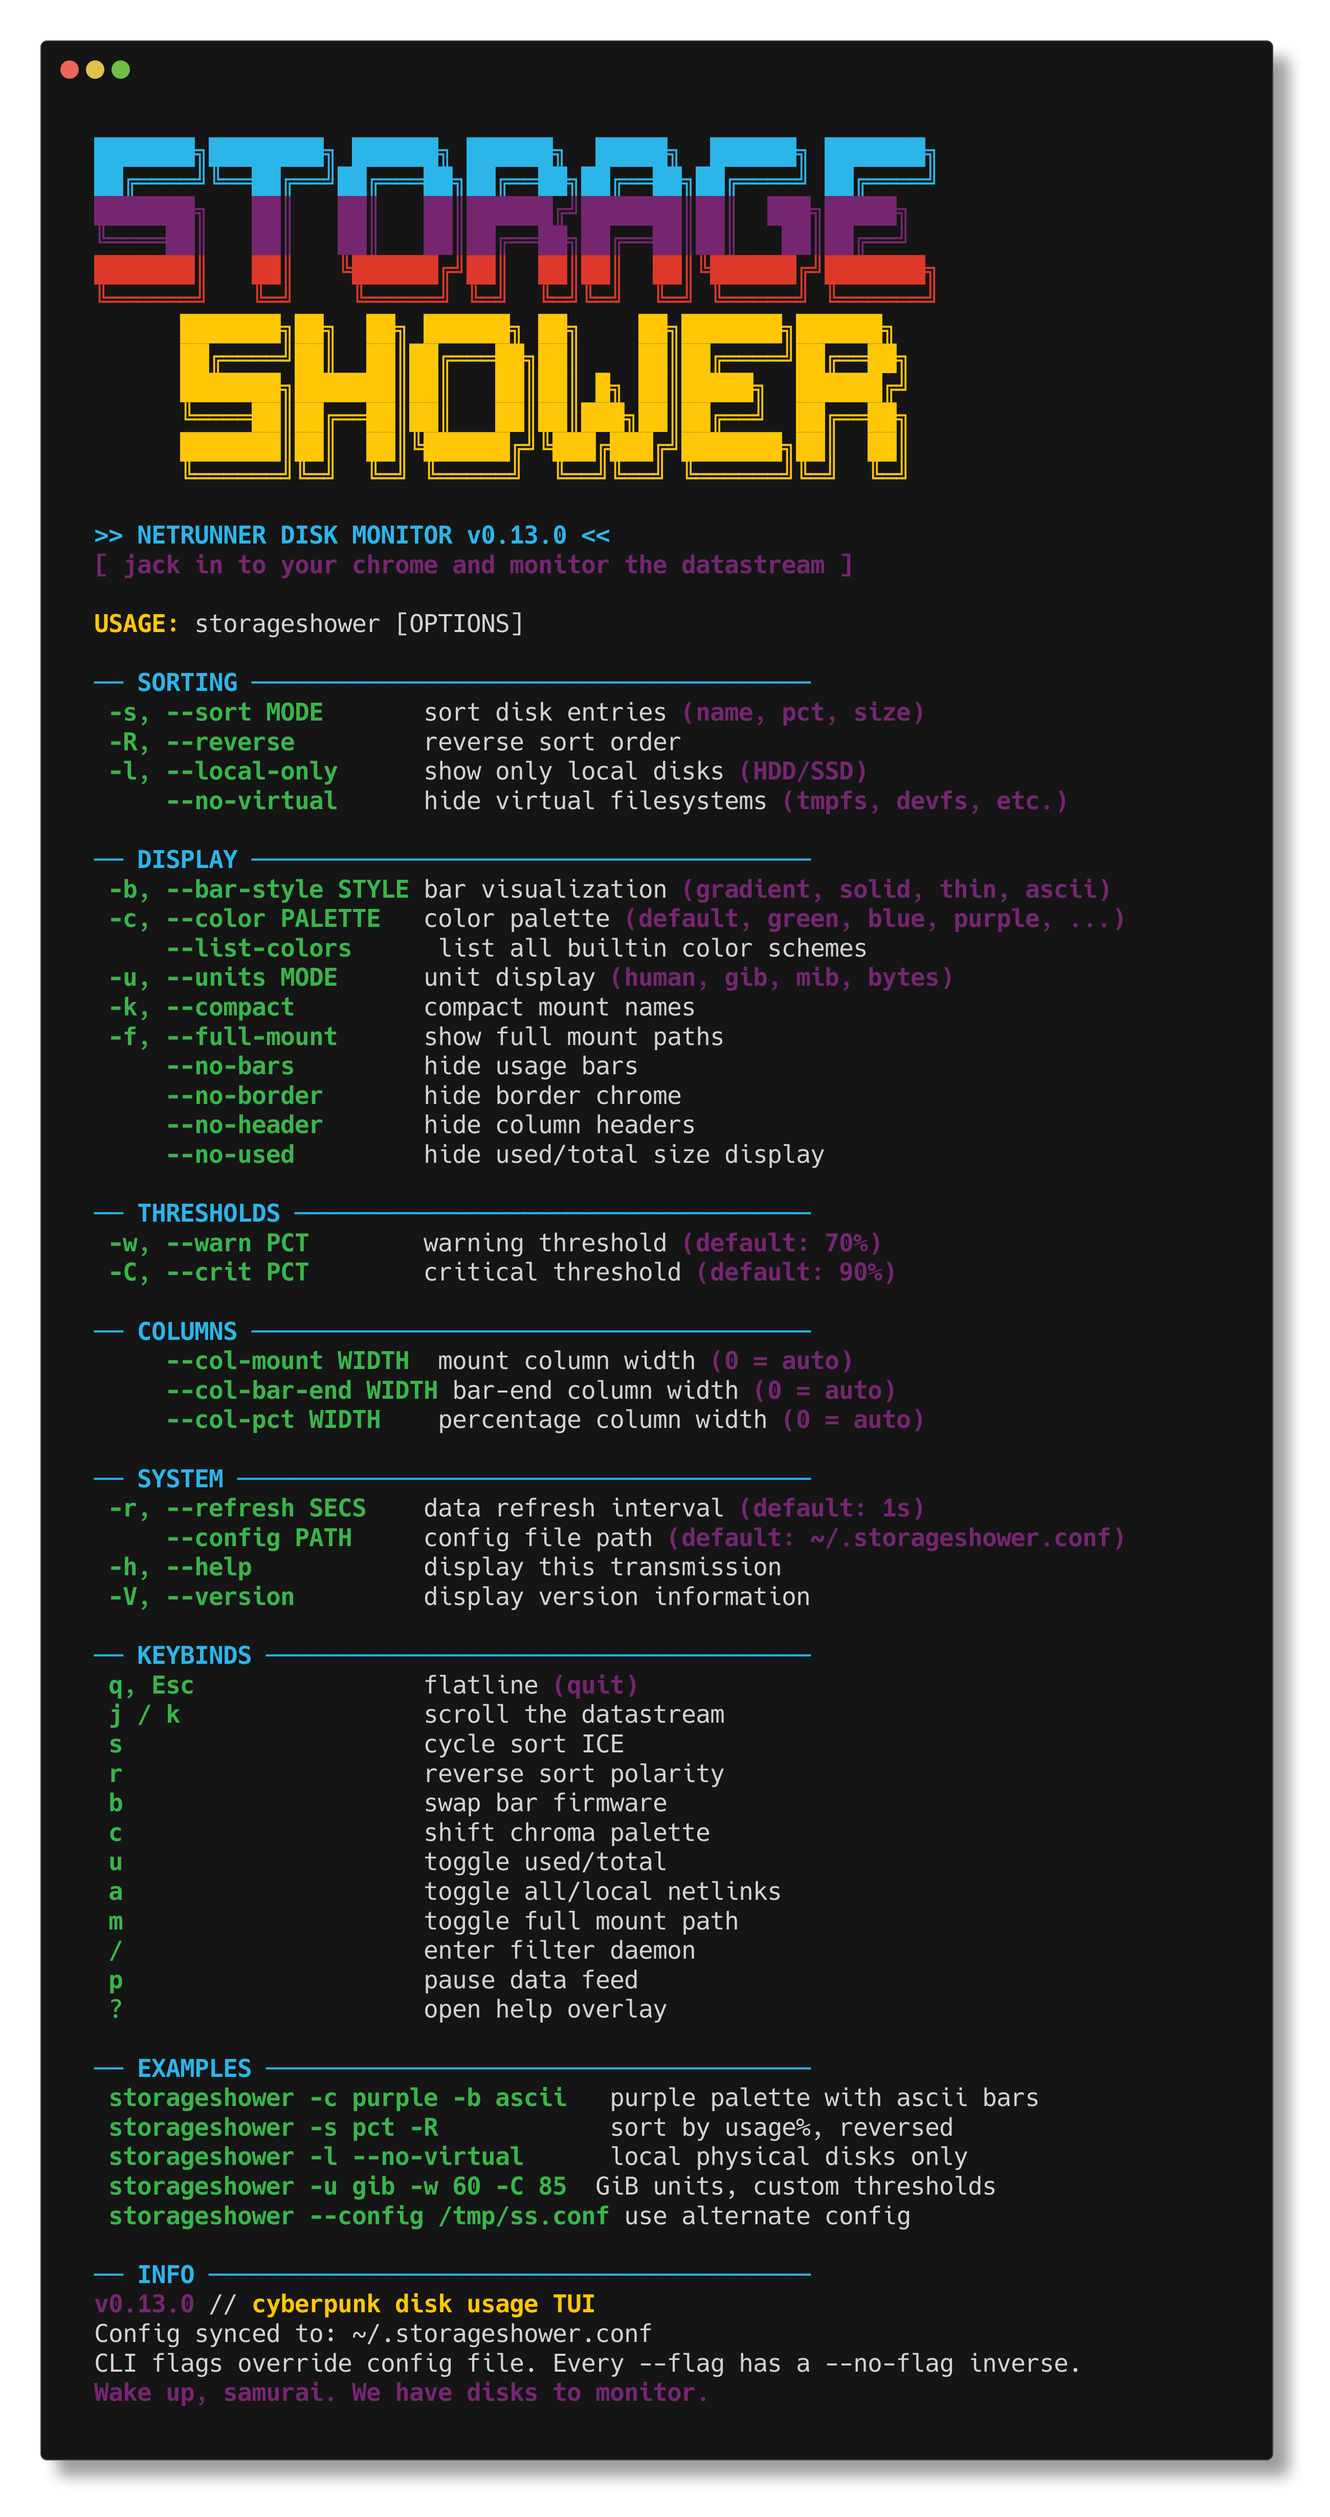
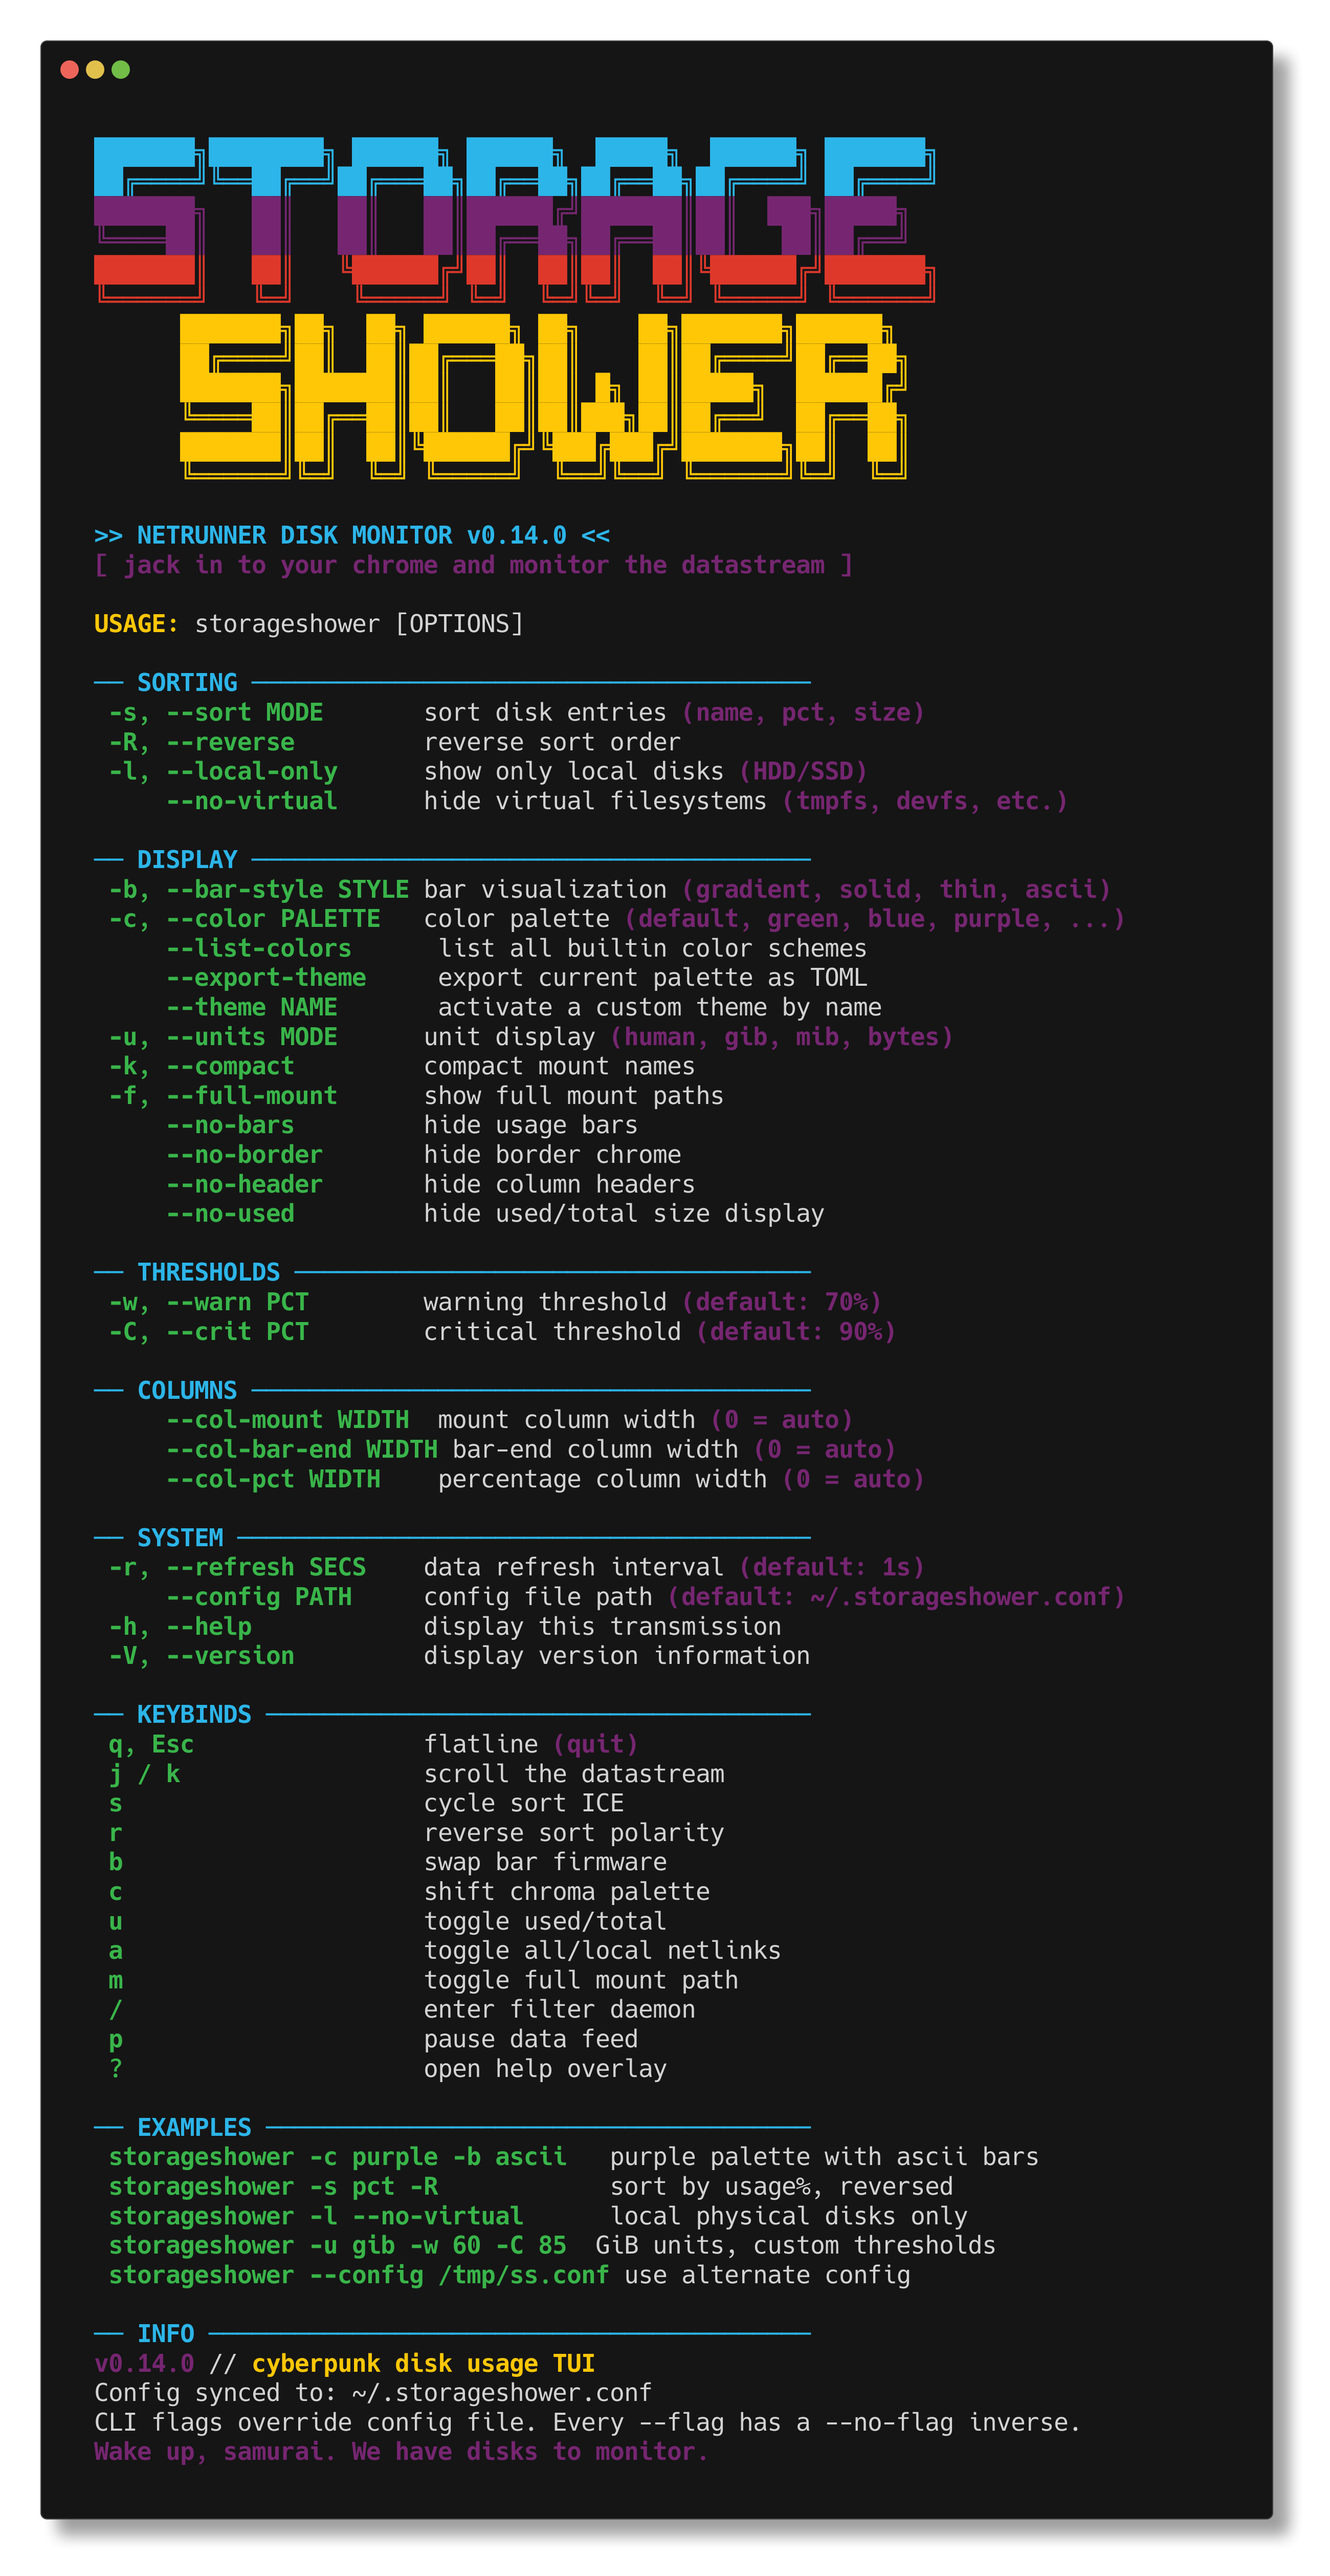
bump version to 0.14.0: --export-theme flag
- --export-theme dumps current palette as ready-to-paste TOML
- Combine with -c or --theme to export specific palettes
- Outputs [custom_themes.<name>] block with all 6 color values
- Added to CLI help, zsh completion, README
- 3 new integration tests for flag parsing

diff --git a/src/cli.rs b/src/cli.rs
@@ -143,6 +143,10 @@ pub struct Cli {
     /// Activate a custom theme by name (defined in config file)
     #[arg(long = "theme", value_name = "NAME")]
     pub theme: Option<String>,
+
+    /// Export the current or named theme as TOML
+    #[arg(long = "export-theme")]
+    pub export_theme: bool,
 }
 
 // ANSI color constants
@@ -187,6 +191,8 @@ pub fn print_help() {
 {B_GREEN}   -b, --bar-style STYLE {RST}bar visualization {B_MAGENTA}(gradient, solid, thin, ascii){RST}
 {B_GREEN}   -c, --color PALETTE   {RST}color palette {B_MAGENTA}(default, green, blue, purple, ...){RST}
 {B_GREEN}       --list-colors      {RST}list all builtin color schemes
+{B_GREEN}       --export-theme     {RST}export current palette as TOML
+{B_GREEN}       --theme NAME       {RST}activate a custom theme by name
 {B_GREEN}   -u, --units MODE      {RST}unit display {B_MAGENTA}(human, gib, mib, bytes){RST}
 {B_GREEN}   -k, --compact         {RST}compact mount names
 {B_GREEN}   -f, --full-mount      {RST}show full mount paths
@@ -274,6 +280,43 @@ pub fn print_colors() {
     }
     println!("\n  {B_YELLOW}Usage:{RST} storageshower {B_GREEN}-c{RST} {B_MAGENTA}<flag>{RST}");
     println!("  {B_YELLOW}Cycle:{RST} press {B_GREEN}c{RST} in the TUI\n");
+}
+
+pub fn print_export_theme(prefs: &Prefs) {
+    use crate::ui::{palette, palette_for_prefs};
+    use ratatui::style::Color;
+
+    fn idx(c: Color) -> u8 {
+        match c { Color::Indexed(n) => n, _ => 0 }
+    }
+
+    let (name, colors) = if let Some(ref theme_name) = prefs.active_theme {
+        if let Some(theme) = prefs.custom_themes.get(theme_name) {
+            (theme_name.clone(), [theme.blue, theme.green, theme.purple, theme.light_purple, theme.royal, theme.dark_purple])
+        } else {
+            let (a, b, c, d, e, f) = palette(prefs.color_mode);
+            (prefs.color_mode.name().to_string(), [idx(a), idx(b), idx(c), idx(d), idx(e), idx(f)])
+        }
+    } else {
+        let (a, b, c, d, e, f) = palette_for_prefs(prefs);
+        (prefs.color_mode.name().to_string(), [idx(a), idx(b), idx(c), idx(d), idx(e), idx(f)])
+    };
+
+    let safe_name: String = name.chars()
+        .map(|c| if c.is_alphanumeric() || c == '_' { c.to_ascii_lowercase() } else { '_' })
+        .collect();
+
+    println!("# {} — exported from storageshower", name);
+    println!("[custom_themes.{}]", safe_name);
+    println!("blue         = {}", colors[0]);
+    println!("green        = {}", colors[1]);
+    println!("purple       = {}", colors[2]);
+    println!("light_purple = {}", colors[3]);
+    println!("royal        = {}", colors[4]);
+    println!("dark_purple  = {}", colors[5]);
+    println!();
+    println!("# Paste into ~/.storageshower.conf and set:");
+    println!("# active_theme = \"{}\"", safe_name);
 }
 
 impl Cli {

diff --git a/tests/integration.rs b/tests/integration.rs
@@ -1326,3 +1326,25 @@ fn drill_sort_resets_selection() {
     app.handle_key(make_key(KeyCode::Char('n')));
     assert_eq!(app.drill_selected, 0, "Sort should reset selection to 0");
 }
+
+// ─── Export theme CLI ────────────────────────────────────────────────────
+
+#[test]
+fn export_theme_flag_parses() {
+    let cli = Cli::parse_from(["storageshower", "--export-theme"]);
+    assert!(cli.export_theme);
+}
+
+#[test]
+fn export_theme_with_color_flag() {
+    let cli = Cli::parse_from(["storageshower", "--export-theme", "-c", "purple"]);
+    assert!(cli.export_theme);
+    assert_eq!(cli.color_mode, Some(ColorMode::Purple));
+}
+
+#[test]
+fn export_theme_with_theme_flag() {
+    let cli = Cli::parse_from(["storageshower", "--export-theme", "--theme", "mytest"]);
+    assert!(cli.export_theme);
+    assert_eq!(cli.theme, Some("mytest".into()));
+}

diff --git a/src/main.rs b/src/main.rs
@@ -27,6 +27,12 @@ fn main() -> io::Result<()> {
         cli::print_colors();
         return Ok(());
     }
+    if cli.export_theme {
+        let mut prefs = storageshower::prefs::load_prefs_from(cli.config.as_deref());
+        cli.apply_to(&mut prefs);
+        cli::print_export_theme(&prefs);
+        return Ok(());
+    }
 
     let sys = System::new_all();
     let initial_stats = collect_sys_stats(&sys);

diff --git a/README.md b/README.md
@@ -20,7 +20,7 @@
 </p>
 
 <p align="center">
-  <code>[ SYSTEM://DISK_MATRIX v13.0 ]</code><br>
+  <code>[ SYSTEM://DISK_MATRIX v14.0 ]</code><br>
   <code>⟦ JACKING INTO YOUR FILESYSTEM ⟧</code><br><br>
   <strong>A neon-drenched terminal UI for monitoring disk usage</strong><br>
   <em>Built in Rust with <a href="https://github.com/ratatui/ratatui">ratatui</a> + <a href="https://github.com/crossterm-rs/crossterm">crossterm</a></em><br><br>
@@ -207,6 +207,7 @@ to force-override in either direction.
 | `-c, --color PALETTE` | Color palette — `default`, `green`, `blue`, `purple`, `amber`, `cyan`, `red`, `sakura`, `matrix`, `sunset` |
 | `--theme NAME` | Activate a custom theme by name (defined in config) |
 | `--list-colors` | List all builtin color schemes with preview |
+| `--export-theme` | Export current palette as TOML (combine with `-c` or `--theme`) |
 | `-u, --units MODE` | Unit display — `human`, `gib`, `mib`, `bytes` |
 | `-k, --compact` / `--no-compact` | Compact mount names |
 | `-f, --full-mount` / `--no-full-mount` | Show full mount paths |
@@ -248,6 +249,7 @@ storageshower -l --no-virtual        # local physical disks only
 storageshower -u gib -w 60 -C 85    # GiB units, custom thresholds
 storageshower --theme neonpink       # activate custom theme
 storageshower --list-colors          # preview all builtin palettes
+storageshower --export-theme -c blue # export blue palette as TOML
 storageshower --config /tmp/ss.conf  # use alternate config
 ```
 
